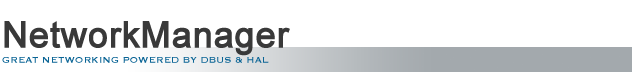
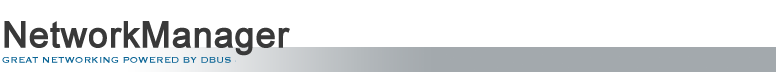
nm: update for 0.8 release

Changed region(s): [[0.0, 0.2778, 0.481, 0.8889]]

diff --git a/projects.gnome.org/NetworkManager/index.html b/projects.gnome.org/NetworkManager/index.html
@@ -17,21 +17,24 @@
 
 	<div class="float-right">
 		<div id="sidebar">
-			<h3>Download</h3>
-			<p>Source tarballs of the latest NetworkManager release can be found on the <a href="http://ftp.gnome.org/pub/GNOME/sources/NetworkManager/">GNOME download server</a>.</p>
-			<p>For information on obtaining the NetworkManager source code from git, read the <a href="developers/">developers</a> page.</p>
+			<h3>Download 0.8 Now!</h3>
+			<p>You can probably find easily-installable packages of NetworkManager in your distribution's repositories.  If not, grab source tarballs of the latest release of <a href="http://ftp.gnome.org/pub/GNOME/sources/NetworkManager/0.8/">NetworkManager</a> and <a href="http://ftp.gnome.org/pub/GNOME/sources/network-manager-applet/0.8/">network-manager-applet</a>.</p>
+			<p>For information on obtaining the NetworkManager, nm-applet, and ModemManager source code from git, take a look at the <a href="developers/">developer's</a> page.</p>
 		</div>
-		<img src="images/wireless-at-tealuxe.png">
+		<center><img src="images/wireless-at-floyds.png"></center>
 	</div>
 
+	<h2>NetworkManager 0.8 is here!</h2>
+	<p>More than a year in development, this latest release adds <strong>IPv6</strong> capability, <strong>improved mobile broadband</strong> support (including <strong>Bluetooth PAN</strong>-capable devices like mobile phones), a redesigned GNOME wireless applet, and much more.  See the complete list of <a href="http://live.gnome.org/NetworkManager/ReleaseProcess">what's new</a>.</p>
+
 	<h2>Pain-Free Networking</h2>
-	<p>Networking on Linux right now is painful for the mobile desktop user, especially in comparison to other operating systems. You should never need to use the command line or configuration files to manage your network (<i>unless you want to!</i>); everything should "Just Work" as automatically as possible and intrude as little as possible into your workflow.  NetworkManager attempts to make networking invisible.  When moving into areas you've been before, NetworkManager automatically connects to the last network you chose to connect to.  Likewise, when back at the desk, NetworkManager will switch to the faster, more reliable wired network connection.  Or while you're on the road, use your mobile broadband connection to </p>
+	<p>Networking on Linux can be painful, especially in comparison to other operating systems. You should never need to use the command line or configuration files to manage your network (<i>unless you want to!</i>); everything should "Just Work" as automatically as possible and never stop you from doing what you want to do.  NetworkManager attempts to make networking as invisible as you want it to be.  Whether at home, work, or on the move, NetworkManager automatically connects to the last network you told it to connect to.  From wired to wireless to mobile broadband to Bluetooth, NetworkManager has you covered.</p>
 
 	<h2>Flexible, Extendable, Open</h2>
-	<p>The most important pieces of NetworkManager are desktop-environment and distribution agnostic, functioning just as well in Gnome, KDE, Xfce, etc. across distributions like Fedora Core, Ubuntu, SuSE, Debian, and Gentoo.  And since the NetworkManager components communicate with each other using <a href="http://www.freedesktop.org/Software/dbus">dbus</a>, it's easy to to build network-aware applications in languages like C, C++, and Python.</p>
+	<p>The most important pieces of NetworkManager are user-interface and distribution agnostic, functioning just as well in Gnome, KDE, Xfce, embedded devices, etc., and across distributions like Fedora Core, Ubuntu, SuSE, Debian, Gentoo, and others.  And since the NetworkManager components communicate with each other using <a href="http://www.freedesktop.org/Software/dbus">dbus</a>, it's easy to to build network-aware applications with languages like <a href="http://cgit.freedesktop.org/NetworkManager/NetworkManager/tree/examples">C, C++, and Python</a>, or network-aware scripts in your favorite shell.</p>
 
 	<h2>Application Integration</h2>
-	<p>Using the awesome power and flexibility of <a href="http://www.freedesktop.org/Software/dbus">dbus</a> and <a href="http://www.freedesktop.org/Software/hal">hal</a>, NetworkManager provides facilities for other applications like browsers, email clients, or system services to be aware of the network's state and adjust their operation accordingly.  If you're not online, your computer shouldn't try to update itself, and when you're on a mobile broadband network, it probably shouldn't either.  With NetworkManager, software knows where it is, and how it's connected.</p>
+	<p>Using the awesome power and flexibility of <a href="http://www.freedesktop.org/Software/dbus">dbus</a>, <a href="http://www.kernel.org/pub/linux/utils/kernel/hotplug/udev.html">udev</a>, and <a href="http://cgit.freedesktop.org/ModemManager/ModemManager/">ModemManager</a>, NetworkManager provides facilities for other applications like browsers, email clients, or system services to be aware of the network's state and adjust their operation accordingly.  If you're not online or on your metered mobile broadband connection, your computer probably shouldn't try to update itself.  With NetworkManager, software knows where it is and how it's connected.</p>
 
 	<h2>More Information</h2>
 	<p>Read the NetworkManager <a href="http://mail.gnome.org/mailman/listinfo/networkmanager-list">mailing list archives</a>, or subscribe to the NetworkManager mailing list, or checkout the <a href="http://live.gnome.org/NetworkManager">NetworkManager wiki</a>.</p>

diff --git a/projects.gnome.org/NetworkManager/users/index.html b/projects.gnome.org/NetworkManager/users/index.html
@@ -8,7 +8,7 @@
 <div class="user content">
 	<div id="banner">
 		<div id="navbar">
-			<img src="../images/banners/users.png">
+			<img src="../images/banners/main.png">
 			<div id="links">
 				<a href="../" id="main">main</a> | <a id="users">users</a> | <a href="../admins/" id="admins">admins</a> | <a href="../developers/" id="developers">developers</a>
 			</div>
@@ -21,10 +21,13 @@
 	<p>To switch network connections, simply choose another one from the applet's menu.</p>
 
 	<h2>Supported Wireless Hardware</h2>
-	<p>Drivers that are included in the upstream Linux kernel work best with NetworkManager, because they have been reviewed and vetted by many kernel developers.  If the driver isn't upstream, work with the provider of the driver to clean it up and submit it for inclusion into the kernel.  If the driver is not completely open-source (ex. ndiswrapper, madwifi, and Broadcom's wl.o), then driver bugs cannot be fixed quickly and easily, and NetworkManager cannot be guaranteed to work with it.  Make sure the driver your OS uses are top-quality.<p>
+	<p>Drivers that are included in the upstream Linux kernel work best with NetworkManager, because they have been reviewed and vetted by many kernel developers.  If the driver isn't upstream, work with the provider of the driver to clean it up and submit it for inclusion into the kernel.  If the driver is not completely open-source (like ndiswrapper, madwifi, and Broadcom's wl.o), then driver bugs cannot be fixed quickly and easily, and NetworkManager cannot be guaranteed to work with it.  Make sure the drivers you use are top-quality.<p>
 
 	<h2>Supported Mobile Broadband Hardware</h2>
-	<p>NetworkManager uses ModemManager for mobile broadband device support.  A partial listing of <a href="http://live.gnome.org/NetworkManager/MobileBroadband">supported mobile broadband hardware</a> is on the wiki.  If your hardware is not on the list it's likely to be supported, but many devices first appear in a "fake driver CD" mode and must be changed to modem mode using a tool like <a href="http://www.draisberghof.de/usb_modeswitch/">usb_modeswitch</a>.</p>
+	<p>NetworkManager uses ModemManager for great mobile broadband device support.  A partial listing of <a href="http://live.gnome.org/NetworkManager/MobileBroadband">supported mobile broadband hardware</a> is on the wiki.  If your hardware is not on the list it's likely to be supported, but many devices first appear in a "fake driver CD" mode and must be changed to modem mode using a tool like <a href="http://www.draisberghof.de/usb_modeswitch/">usb_modeswitch</a>.</p>
+
+	<h2>How do I change my network connections?</h2>
+	<p>In NetworkManager land, there are <a href="http://live.gnome.org/NetworkManagerConfiguration">two types of network configuration</a>: "system" and "user".  User connections are exclusively yours; they are not accessible to other users on the system, and often are the right choice for VPN or mobile broadband connections.  System connections are available before login and to all users of the machine; NetworkManager will do its best to read your distro's existing network configuration and make those connections available to you.  In both cases, you can use 'nm-connection-editor' to view and change your network setup.</p>
 
 	<h2>Bugs</h2>
 	<p>Should find a bug, please <a href="http://bugzilla.gnome.org/enter_bug.cgi?product=NetworkManager">report it to us in GNOME Bugzilla</a> so we know what to fix!  To help get your bug fixed faster you can follow some of the <a href="http://live.gnome.org/NetworkManager/Debugging">debugging tips</a> on the wiki. Your bug reports help us continually improve the quality of the product.</p>

diff --git a/projects.gnome.org/NetworkManager/admins/index.html b/projects.gnome.org/NetworkManager/admins/index.html
@@ -8,16 +8,15 @@
 <div class="administrator content">
 	<div id="banner">
 		<div id="navbar">
-			<img src="../images/banners/admins.png">
+			<img src="../images/banners/main.png">
 			<div id="links">
 				<a href="../" id="main">main</a> | <a href="../users/" id="users">users</a> | <a id="admins">admins</a> | <a href="../developers/" id="developers">developers</a>
 			</div>
 		</div>
 	</div>
 
-	<h1>Administrators</h1>
 	<h2>Architecture</h2>
-	The <a href="http://live.gnome.org/NetworkManagerConfiguration">wiki</a> has more information about how the the configuration of NetworkManager works.  Also be sure to check out the information on <a href="http://live.gnome.org/NetworkManager/SystemSettings">system settings</a> to learn how NetworkManager integrates into your distribution's normal configuration system.
+	<p>The <a href="http://live.gnome.org/NetworkManagerConfiguration">wiki</a> has more information about how the the configuration of NetworkManager works.  Also be sure to check out the information on <a href="http://live.gnome.org/NetworkManager/SystemSettings">system settings</a> to learn how NetworkManager integrates into your distribution's normal configuration system.</p>
 
 	<h2>Deployment</h2>
 	<p>NetworkManager is designed to be fully automatic by default, but offer a high level of manual control when required.  To use NetworkManager, its service must be started.  Simply start the <kbd>NetworkManager</kbd> service.  NetworkManager ships with initscripts to do this for most distributions.  If your distribution is not supported, we would appreciate patches to include support for your distribution of choice.  NetworkManager will then automatically start other services as it requires them (nm-system-settings for system-wide connections, wpa_supplicant for WPA and 802.1x connections, and pppd for mobile broadband).</p>

diff --git a/projects.gnome.org/NetworkManager/developers/design_goals.html b/projects.gnome.org/NetworkManager/developers/design_goals.html
@@ -13,7 +13,7 @@
 <div class="developer content">
 	<div id="banner">
 		<div id="navbar">
-			<img src="../images/banners/developers.png">
+			<img src="../images/banners/main.png">
 			<div id="links">
 				<a href="../" id="main">main</a> | <a href="../users/" id="users">users</a> | <a href="../admins/" id="admins">admins</a> | <a href="../developers/" id="developers">developers</a>	
 			</div>
@@ -33,7 +33,11 @@
 
 	<div class="design-goal">
 		<p><strong>Automation</strong>: operation should be as automatic as possible.  By default, everything should "Just Work" with as little interaction as possible.  Everything that can be done automatically or detected automatically, should be.  NetworkManager should not be doing things users don't expect.</p>
-		<p><strong>Example</strong>:  connecting to the last-used wireless network that's available when NetworkManager starts up.</p>
+		<p><strong>Example</strong>:  automatically connecting to the last-used wireless network or the fastest available network type.</p>
+	</div>
+	<div class="design-goal">
+		<p><strong>Control</strong>: just because it's not directly shown in the user interface doesn't mean it can't or shouldn't be done.  Options that most people don't use on a daily basis shouldn't be shown to users every day.  But they should still be accessible to use.</p>
+		<p><strong>Example</strong>: WEP key indexes don't show up when clicking on a WEP-enabled network the first time.  But you can still change the index from nm-connection-editor.</p>
 	</div>
 </div>
 <div id="copyright">

diff --git a/projects.gnome.org/NetworkManager/developers/index.html b/projects.gnome.org/NetworkManager/developers/index.html
@@ -8,7 +8,7 @@
 <div class="developer content">
 	<div id="banner">
 		<div id="navbar">
-			<img src="../images/banners/developers.png">
+			<img src="../images/banners/main.png">
 			<div id="links">
 				<a href="../" id="main">main</a> | <a href="../users/" id="users">users</a> | <a href="../admins/" id="admins">admins</a> | <a id="developers">developers</a>
 			</div>
@@ -63,7 +63,7 @@ href="http://mail.gnome.org/mailman/listinfo/networkmanager-list">http://mail.gn
 	<p>If you make changes to NetworkManager, create the patch using a Unified diff format (ie, diff -u) and mail the patch to the NetworkManager list.  Others on the list may make suggestions, please take these into consideration.  Eventually, your patch can be checked into the NetworkManager git source repositories.</p>
 
 	<h2>Stuff to work on</h2>
-	<p>The most up-to-date list of work items is kept at the live.gnome.org Wiki <a href="http://live.gnome.org/NetworkManagerToDo">here</a>.</p>
+	<p>The most up-to-date list of work items is kept at the live.gnome.org Wiki <a href="http://live.gnome.org/NetworkManager/ReleaseProcess">here</a>.</p>
 
 </div>
 <div id="copyright">

diff --git a/projects.gnome.org/NetworkManager/styles/default.css b/projects.gnome.org/NetworkManager/styles/default.css
@@ -2,10 +2,9 @@ body {
 	background: #bebeae;
 	padding: 12px;
 	font-family: Bistream Vera Sans,sans,sans-serif;
-
 	color: white;
 	min-width: 8;
-	width: 856px;
+	width: 1000px;
 	text-align: justify;
 	margin: 0 auto;
 }
@@ -15,24 +14,21 @@ body {
 	background: url(../images/nm-logo.png) white no-repeat 0px 25px;
 	position: relative;
 	color: #6a6a6a;
-}
-
-.main.content {
-	padding-top: 190px;
-	background-position: 0px 90px;
+	padding-top: 65px;
+	background-position: 0px 40px;
 	line-height: 1.5em;
 }
 
 #banner {
 	position: relative;
-	width: 632px;
+	width: 775px;
 	height: 72px;
 	border: 0px solid green;
 	margin-bottom: 3em;
 }
 
 .content #banner img {
-	width: 632px;
+	width: 775px;
 	height: 72px;
 	position: absolute;
 	left: 0;
@@ -109,8 +105,8 @@ code {
 	color: #0a6495;
 	background-color: #efefef;
 	border: 1px solid #0a6495;
-	width: 200px;
-	max-width: 200px;
+	width: 250px;
+	max-width: 250px;
 	margin: 0 0 5em 1em;
 	padding: 0 1ex 1ex 1ex;
 }
